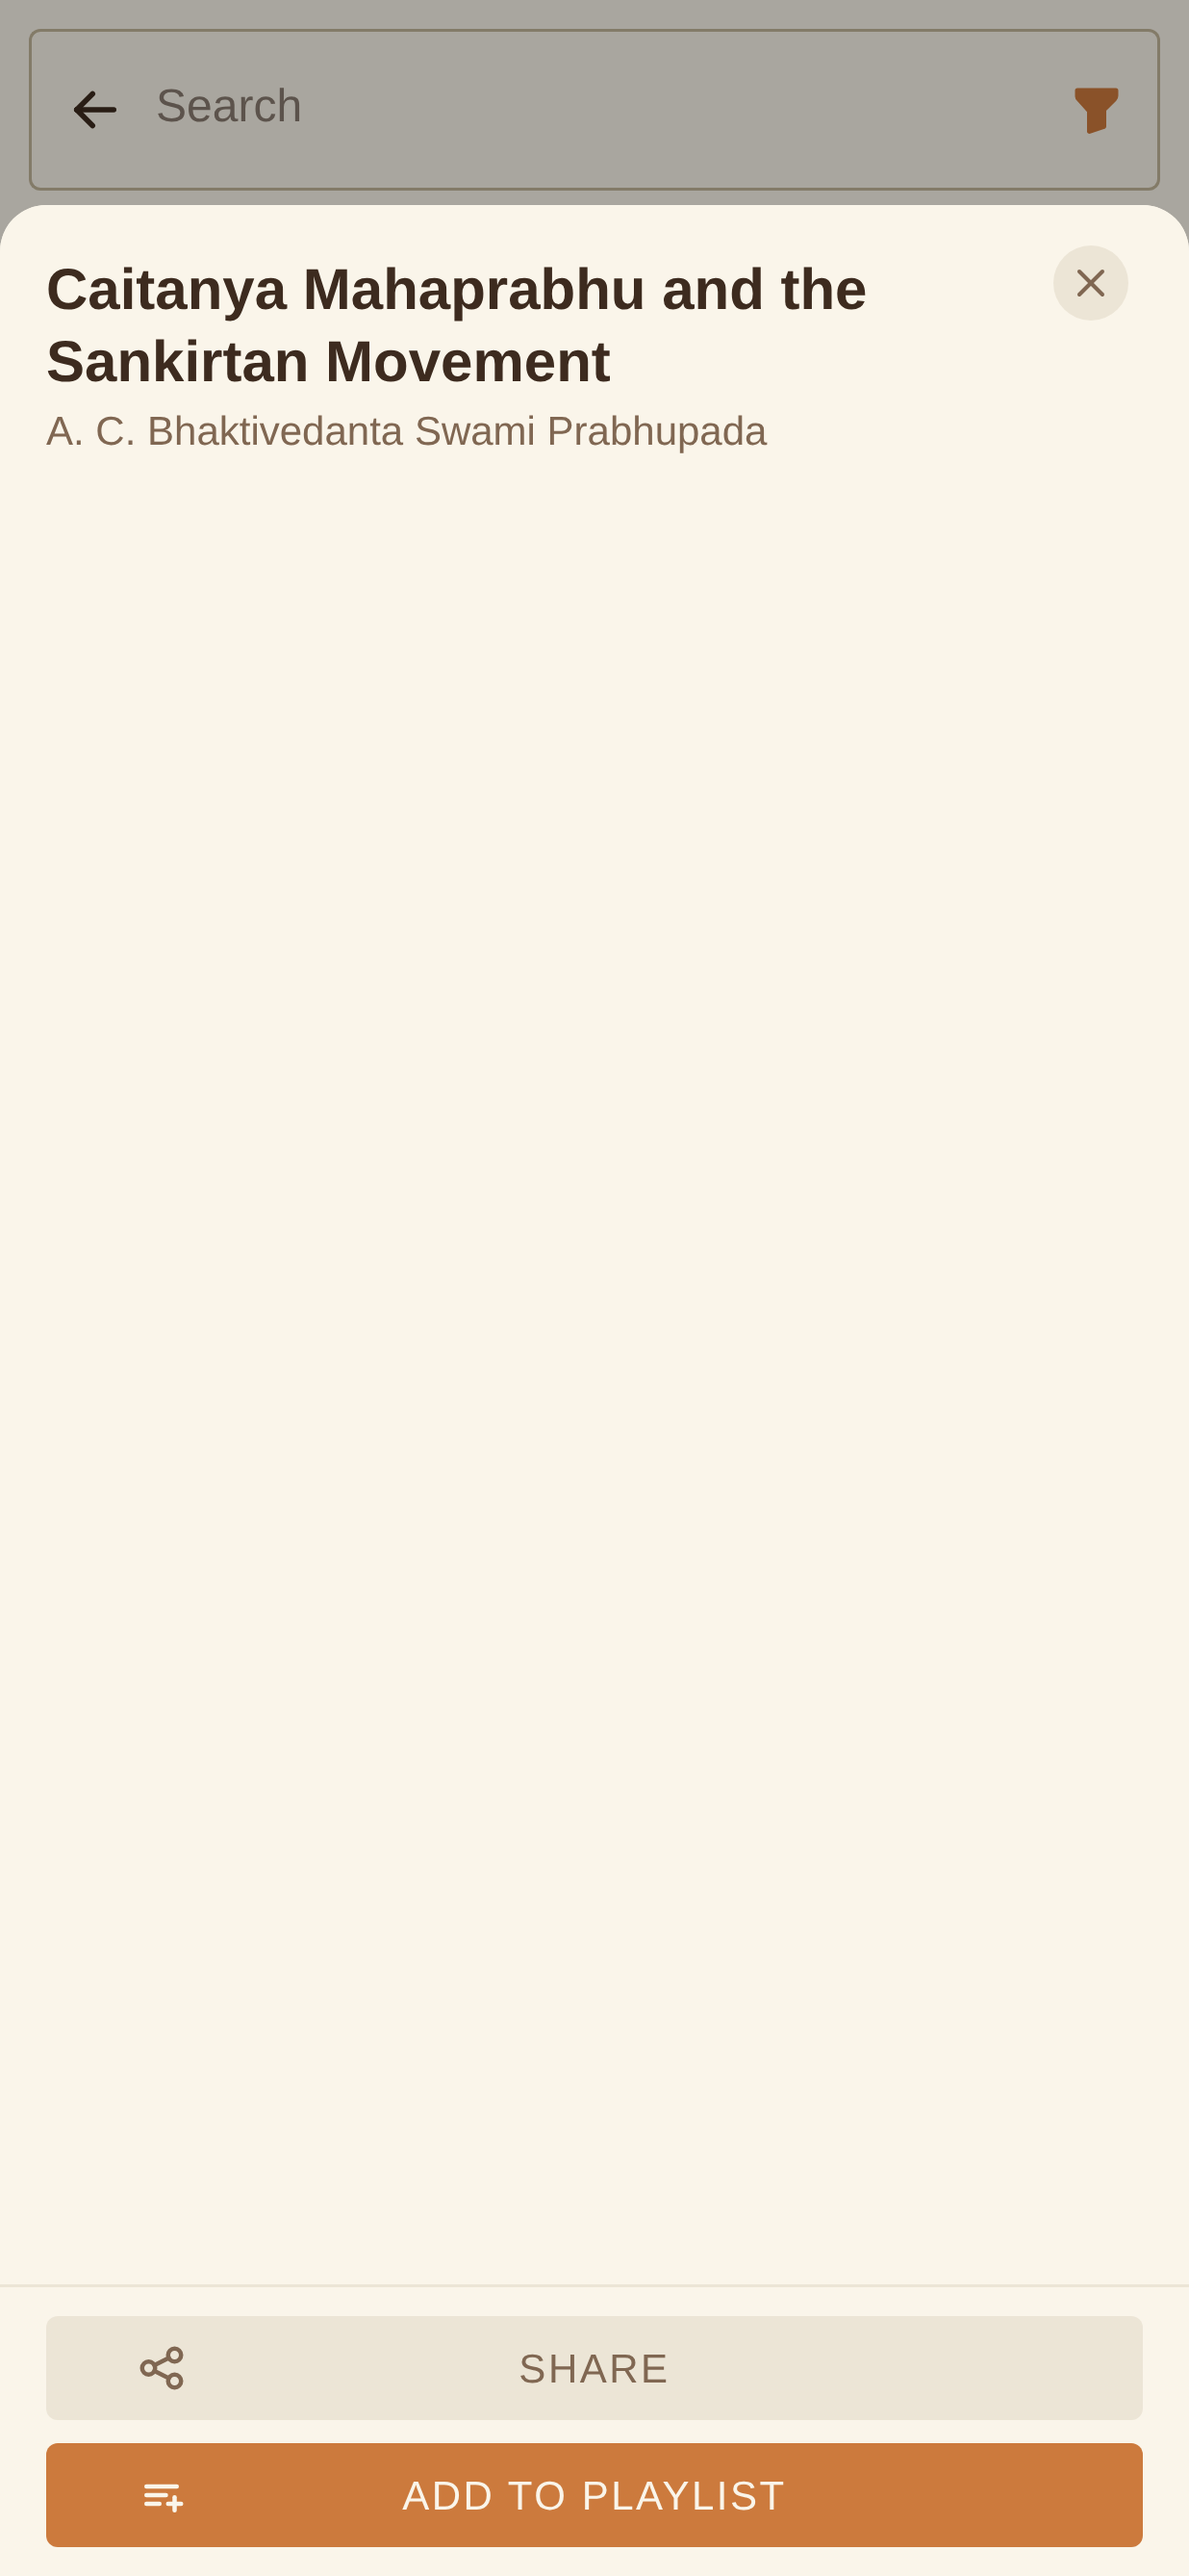
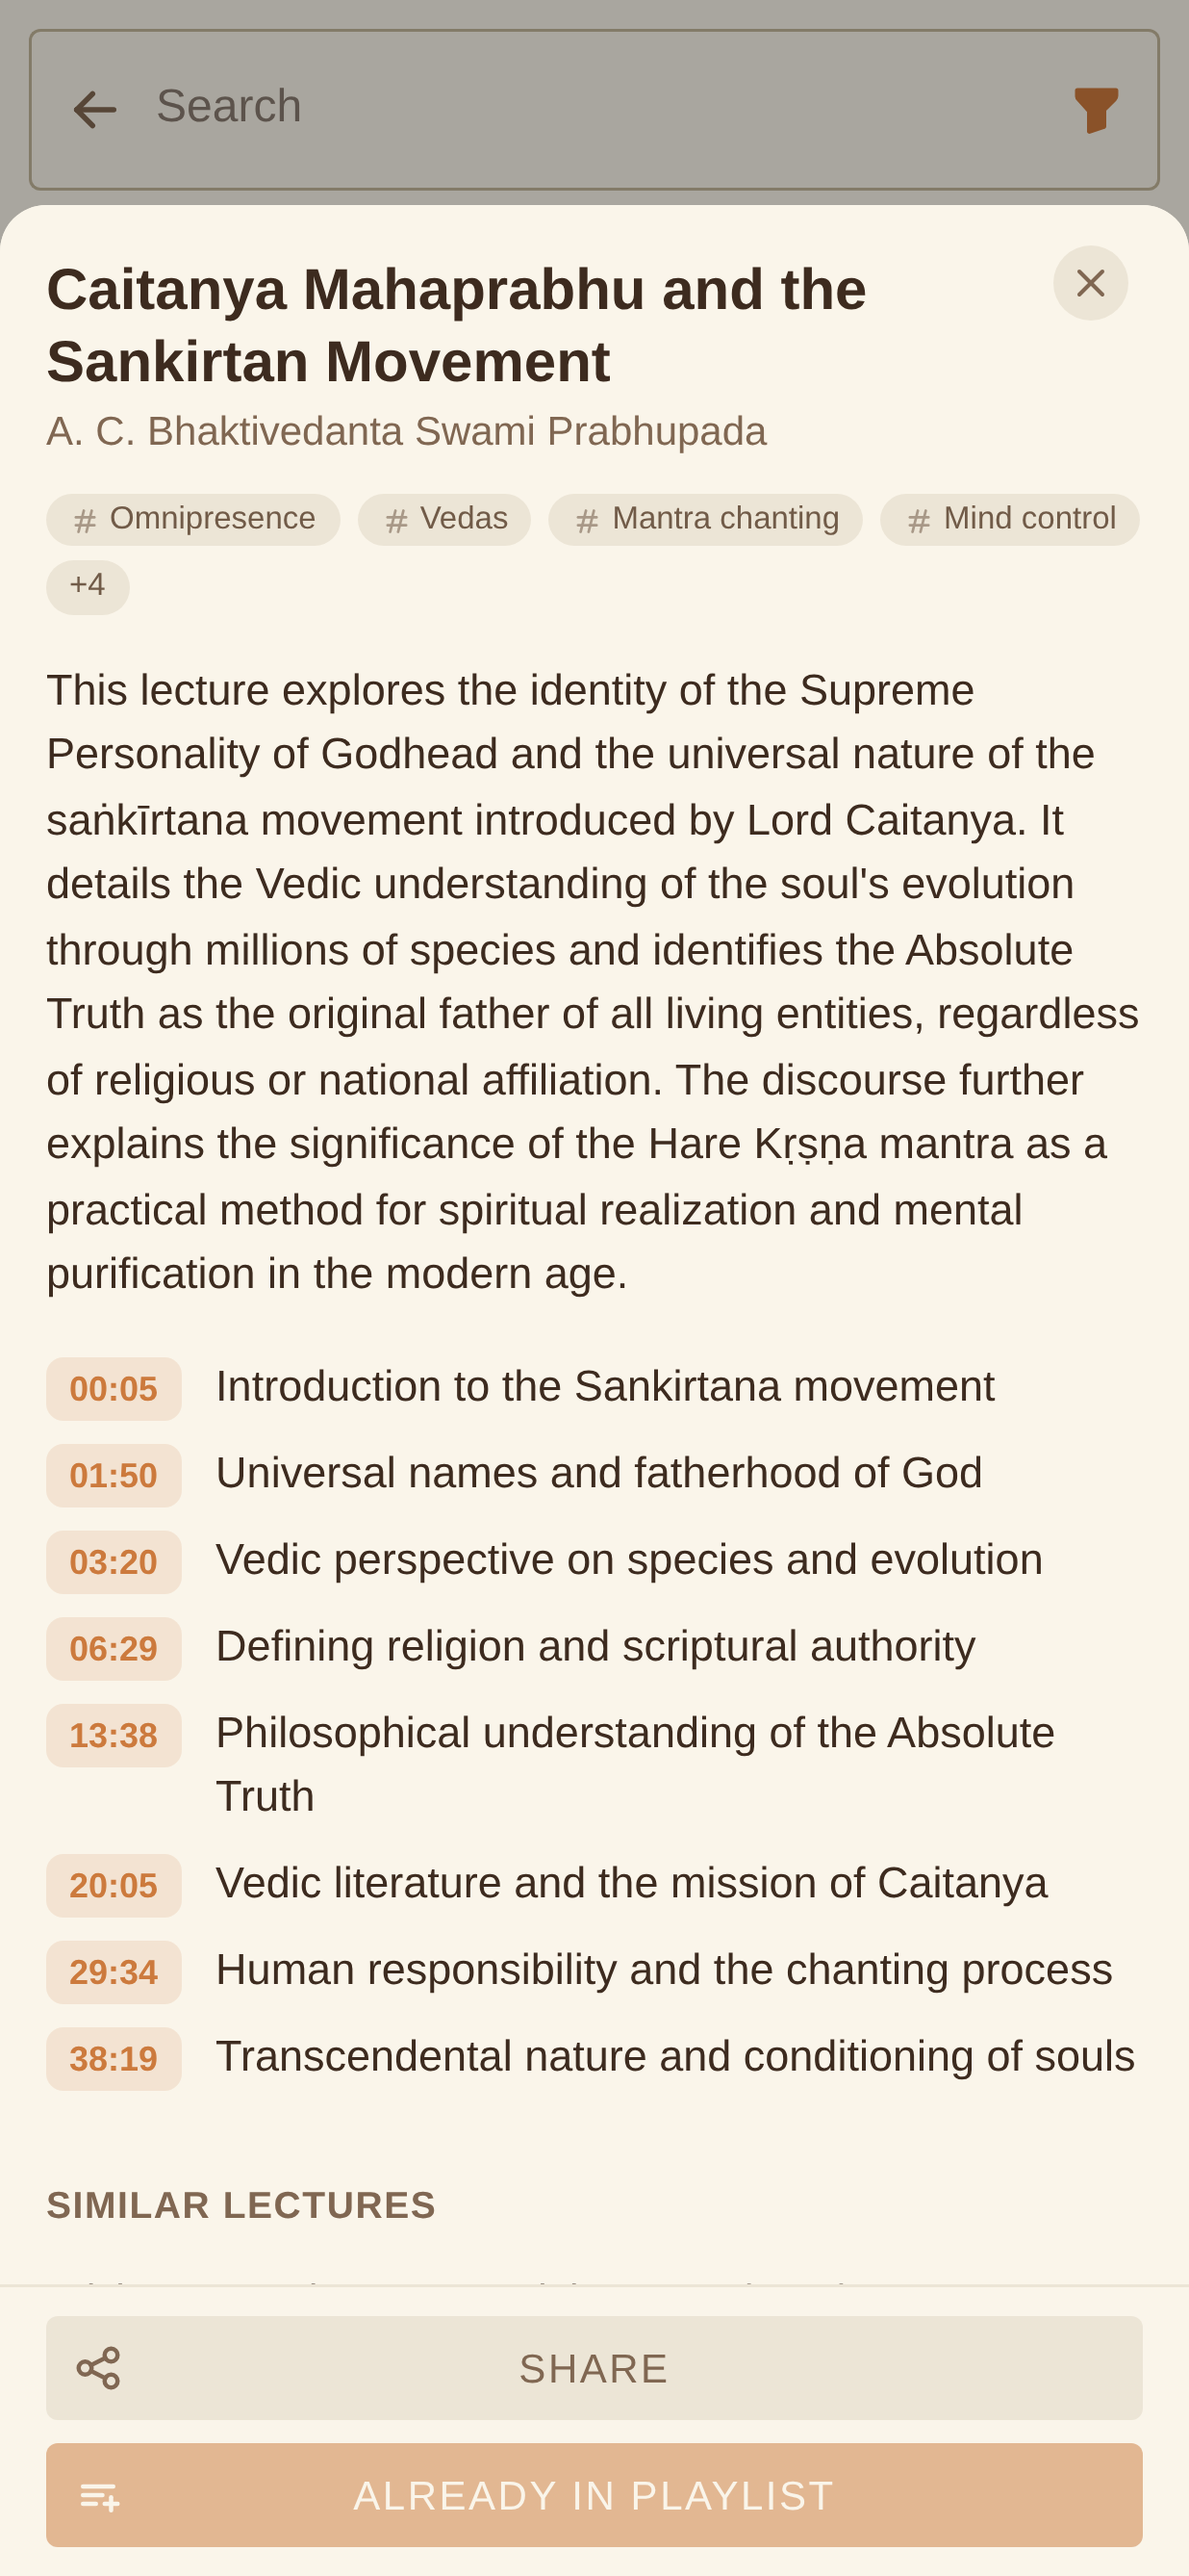
feat(web): drop in-app footer CTA on library pages, refresh screenshots, polish player bar

diff --git a/modules/apps/web/src/i18n/ui.ts b/modules/apps/web/src/i18n/ui.ts
@@ -114,12 +114,10 @@ export const ui = {
     'topics.lead':
       'Выберите тему, чтобы найти лекции о душе, карме, преданном служении, святом имени и многом другом.',
     'topic.kicker': 'Тема',
-    'topic.moreInApp': 'Ещё больше лекций по этой теме — в приложении.',
 
     'collection.kicker': 'Подборка',
 
     'common.lecturesN': 'лекций',
-    'common.listenInApp': 'Слушать в приложении',
     'common.backToLibrary': 'Все категории',
     'common.backToTopics': 'Все темы',
   },
@@ -226,12 +224,10 @@ export const ui = {
     'topics.lead':
       'Pick a topic to find lectures on the soul, karma, devotional service, the holy name and much more.',
     'topic.kicker': 'Topic',
-    'topic.moreInApp': 'More lectures on this topic are available in the app.',
 
     'collection.kicker': 'Collection',
 
     'common.lecturesN': 'lectures',
-    'common.listenInApp': 'Listen in the app',
     'common.backToLibrary': 'All categories',
     'common.backToTopics': 'All topics',
   },

diff --git a/modules/libs/ui/player/AudioPlayerBar.vue b/modules/libs/ui/player/AudioPlayerBar.vue
@@ -138,7 +138,7 @@ function onPointerDown(event: PointerEvent) {
   display: flex;
   flex-direction: column;
   gap: 8px;
-  padding: 8px 12px;
+  padding: 12px;
   background: var(--ion-color-light);
   border: 1px solid var(--ion-border-color);
   border-radius: 10px;
@@ -219,6 +219,9 @@ function onPointerDown(event: PointerEvent) {
 
 .play-spinner {
   --color: var(--ion-color-primary-contrast);
+  display: flex;
+  align-items: center;
+  justify-content: center;
   width: 18px;
   height: 18px;
 }
